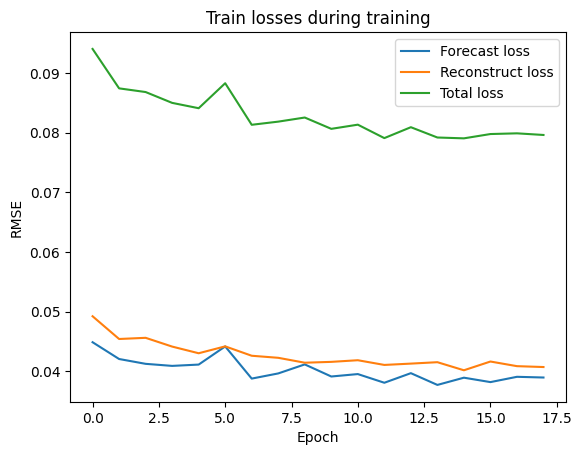
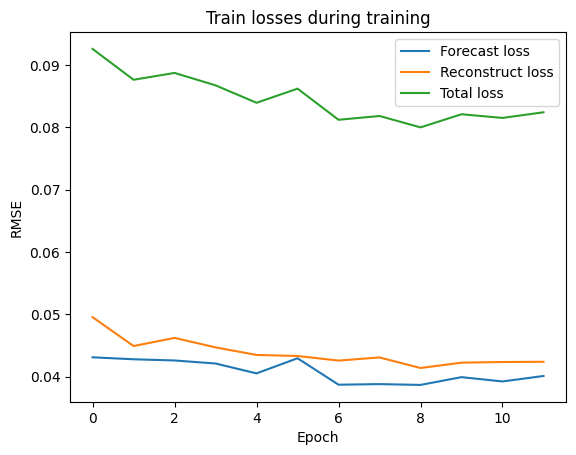
update

diff --git a/exp/exp.py b/exp/exp.py
@@ -13,7 +13,7 @@ from model.loss import JointLoss
 from model.mtad_gat import MTAD_GAT
 from utils.adjustpred import adjust_predicts
 from utils.earlystop import EarlyStop
-from utils.evalmethods import pot_threshold
+from utils.evalmethods import pot_threshold, epsilon_threshold, bestf1_threshold
 from utils.plot import plot_loss
 from utils.preprocess import preprocess
 
@@ -59,7 +59,7 @@ class Exp:
             print('train: {0}, valid: {1}, test: {2}'.format(len(trainset), len(validset), len(testset)))
         else:
             self.train_x, self.valid_x, self.test_x, self.test_y = preprocess(generate=generate, group=self.group)
-            self.train_x = np.vstack((self.train_x, self.valid_x)).shape
+            self.train_x = np.vstack((self.train_x, self.valid_x))
 
             trainset = MyDataset(self.train_x, w=self.w)
             testset = MyDataset(self.test_x, w=self.w)
@@ -87,7 +87,7 @@ class Exp:
     def _get_score(self, data, dataloader):
         self.model.eval()
         forecasts, reconstructs = [], []
-        for (batch_x, batch_y) in dataloader:
+        for (batch_x, batch_y) in tqdm(dataloader):
             batch_x = batch_x.float().to(self.device)
             batch_y = batch_y.float().to(self.device)
 
@@ -121,6 +121,36 @@ class Exp:
         return df
 
     def fit(self):
+        # init loss
+        self.model.eval()
+        train_forecast_loss, train_reconstruct_loss, train_loss = [], [], []
+        for (batch_x, batch_y) in tqdm(self.trainloader):
+            forecast_loss, reconstruct_loss, loss = self._process_one_batch(batch_x, batch_y)
+            train_forecast_loss.append(forecast_loss.item())
+            train_reconstruct_loss.append(reconstruct_loss.item())
+            train_loss.append(loss.item())
+
+        self.model.eval()
+        valid_forecast_loss, valid_reconstruct_loss, valid_loss = [], [], []
+        for (batch_x, batch_y) in self.validloader:
+            forecast_loss, reconstruct_loss, loss = self._process_one_batch(batch_x, batch_y)
+            valid_forecast_loss.append(forecast_loss.item())
+            valid_reconstruct_loss.append(reconstruct_loss.item())
+            valid_loss.append(loss.item())
+
+        train_forecast_loss = np.sqrt(np.average(np.array(train_forecast_loss) ** 2))
+        valid_forecast_loss = np.sqrt(np.average(np.array(valid_forecast_loss) ** 2))
+        train_reconstruct_loss = np.sqrt(np.average(np.array(train_reconstruct_loss) ** 2))
+        valid_reconstruct_loss = np.sqrt(np.average(np.array(valid_reconstruct_loss) ** 2))
+        train_loss = np.sqrt(np.average(np.array(train_loss) ** 2))
+        valid_loss = np.sqrt(np.average(np.array(valid_loss) ** 2))
+
+        print(
+            "Iter: {0} Init || Total Loss| Train: {1:.6f} Vali: {2:.6f} || Forecast Loss| Train:{3:.6f} Valid"
+            ": {4:.6f} || Reconstruct Loss| Train: {5:.6f} Valid: {6:.6f}".format(
+                self.iter, train_loss, valid_loss, train_forecast_loss, valid_forecast_loss,
+                train_reconstruct_loss, valid_reconstruct_loss))
+
         for e in range(self.epochs):
             self.model.train()
             train_forecast_loss, train_reconstruct_loss, train_loss = [], [], []
@@ -158,7 +188,7 @@ class Exp:
             print(
                 "Iter: {0} Epoch: {1} || Total Loss| Train: {2:.6f} Vali: {3:.6f} || Forecast Loss| Train:{4:.6f} Valid"
                 ": {5:.6f} || Reconstruct Loss| Train: {6:.6f} Valid: {7:.6f}".format(
-                    self.iter, e, train_loss, valid_loss, train_forecast_loss, valid_forecast_loss,
+                    self.iter, e+1, train_loss, valid_loss, train_forecast_loss, valid_forecast_loss,
                     train_reconstruct_loss, valid_reconstruct_loss))
 
             self.earlystopping(valid_loss, self.model, self.path)
@@ -172,15 +202,19 @@ class Exp:
         plot_loss(self.loss["valid"]["forecast"], self.loss["valid"]["reconstruct"], self.loss["valid"]["total"],
                   './img/' + str(self.group) + '_iter' + str(self.iter) + '_validloss.png')
 
-    def predict(self, load=False):
-        if load:
+    def predict(self, model_load=False, data_load=False):
+        if model_load:
             self.model.load_state_dict(torch.load(self.path))
         self._get_data(generate=False, train=False)
 
         actual_label = self.test_y[self.w:]
 
-        trainresult = self._get_score(self.train_x, self.trainloader)
-        testresult = self._get_score(self.test_x, self.testloader)
+        if data_load:
+            trainresult = pd.read_csv('./result/' + str(self.group) + '_iter' + str(self.iter) + '_trainresult.csv')
+            testresult = pd.read_csv('./result/' + str(self.group) + '_iter' + str(self.iter) + '_testresult.csv')
+        else:
+            trainresult = self._get_score(self.train_x, self.trainloader)
+            testresult = self._get_score(self.test_x, self.testloader)
 
         for i in range(self.test_x.shape[1]):
             train_score = trainresult["Score_" + str(i)].values
@@ -199,8 +233,9 @@ class Exp:
         train_score = trainresult["Score_Global"].values
         test_score = testresult["Score_Global"].values
 
-        threshold = pot_threshold(train_score, test_score)
-        # threshold = bestf1_threshold(test_score, actual_label)
+        # threshold = pot_threshold(train_score, test_score)
+        threshold = bestf1_threshold(test_score, actual_label)
+        # threshold = epsilon_threshold(train_score)
 
         train_pred = (train_score > threshold).astype(np.int)
         test_pred = (test_score > threshold).astype(np.int)

diff --git a/utils/preprocess.py b/utils/preprocess.py
@@ -44,20 +44,18 @@ def preprocess(generate=False, group='1-1', val_split=0.3, path='./data/SMD/', s
             train_x = train_x.loc[:, cols]
             test_x = test_x.loc[:, cols]
 
-            # 划分训练集与验证集
-            valid = train_x.iloc[-int(val_split * len(train_x)):, :]
-            train = train_x.iloc[:-int(val_split * len(train_x)), :]
-
             # 保存
-            train.to_csv(wpath + '/' + name.split('.')[0] + '_train.csv', index=False)
-            valid.to_csv(wpath + '/' + name.split('.')[0] + '_valid.csv', index=False)
+            train_x.to_csv(wpath + '/' + name.split('.')[0] + '_train.csv', index=False)
             test_x.to_csv(wpath + '/' + name.split('.')[0] + '_test.csv', index=False)
             test_y.to_csv(wpath + '/' + name.split('.')[0] + '_test_label.csv', index=False)
             cols.to_csv(wpath + '/' + name.split('.')[0] + '_columns.csv')
 
     train_x = pd.read_csv(path + 'preprocess/machine-' + group + '/machine-' + group + '_train.csv')
-    valid_x = pd.read_csv(path + 'preprocess/machine-' + group + '/machine-' + group + '_valid.csv')
     test_x = pd.read_csv(path + 'preprocess/machine-' + group + '/machine-' + group + '_test.csv')
     test_y = pd.read_csv(path + 'preprocess/machine-' + group + '/machine-' + group + '_test_label.csv')
+
+    # 划分训练集与验证集
+    valid_x = train_x.iloc[-int(val_split * len(train_x)):, :]
+    train_x = train_x.iloc[:-int(val_split * len(train_x)), :]
 
     return train_x.values, valid_x.values, test_x.values, test_y.values

diff --git a/main.py b/main.py
@@ -16,5 +16,5 @@ if __name__ == '__main__':
         print("iter " + str(it) + ' is start...')
         exp = Exp(group, it, epochs, batch_size, patience, lr, generate)
         exp.fit()
-        exp.predict(load=False)
+        exp.predict(model_load=False, data_load=False)
         print("iter " + str(it) + ' is end!')

diff --git a/README.md b/README.md
@@ -1,8 +1,28 @@
 # Loss
+
 - Train Loss
-![]()
+  ![](img/1-1_iter0_trainloss.png)
 - Valid Loss
-![]()
+  ![](img/1-1_iter0_validloss.png)
 
 # Result
-![]()
+
+- epsilon_threshold
+
+|precision|recall|f1|
+| ---- | ---- | ---- |
+|0.543145|1.000000|0.703946|
+
+
+- pot_threshold
+
+|precision|recall|f1|
+| ---- | ---- | ---- |
+|0.641581|1.000000|0.781663|
+
+- bestf1_threshold
+
+|precision|recall|f1|
+| ---- | ---- | ---- |
+|0.994087|0.998515|0.996296|
+
